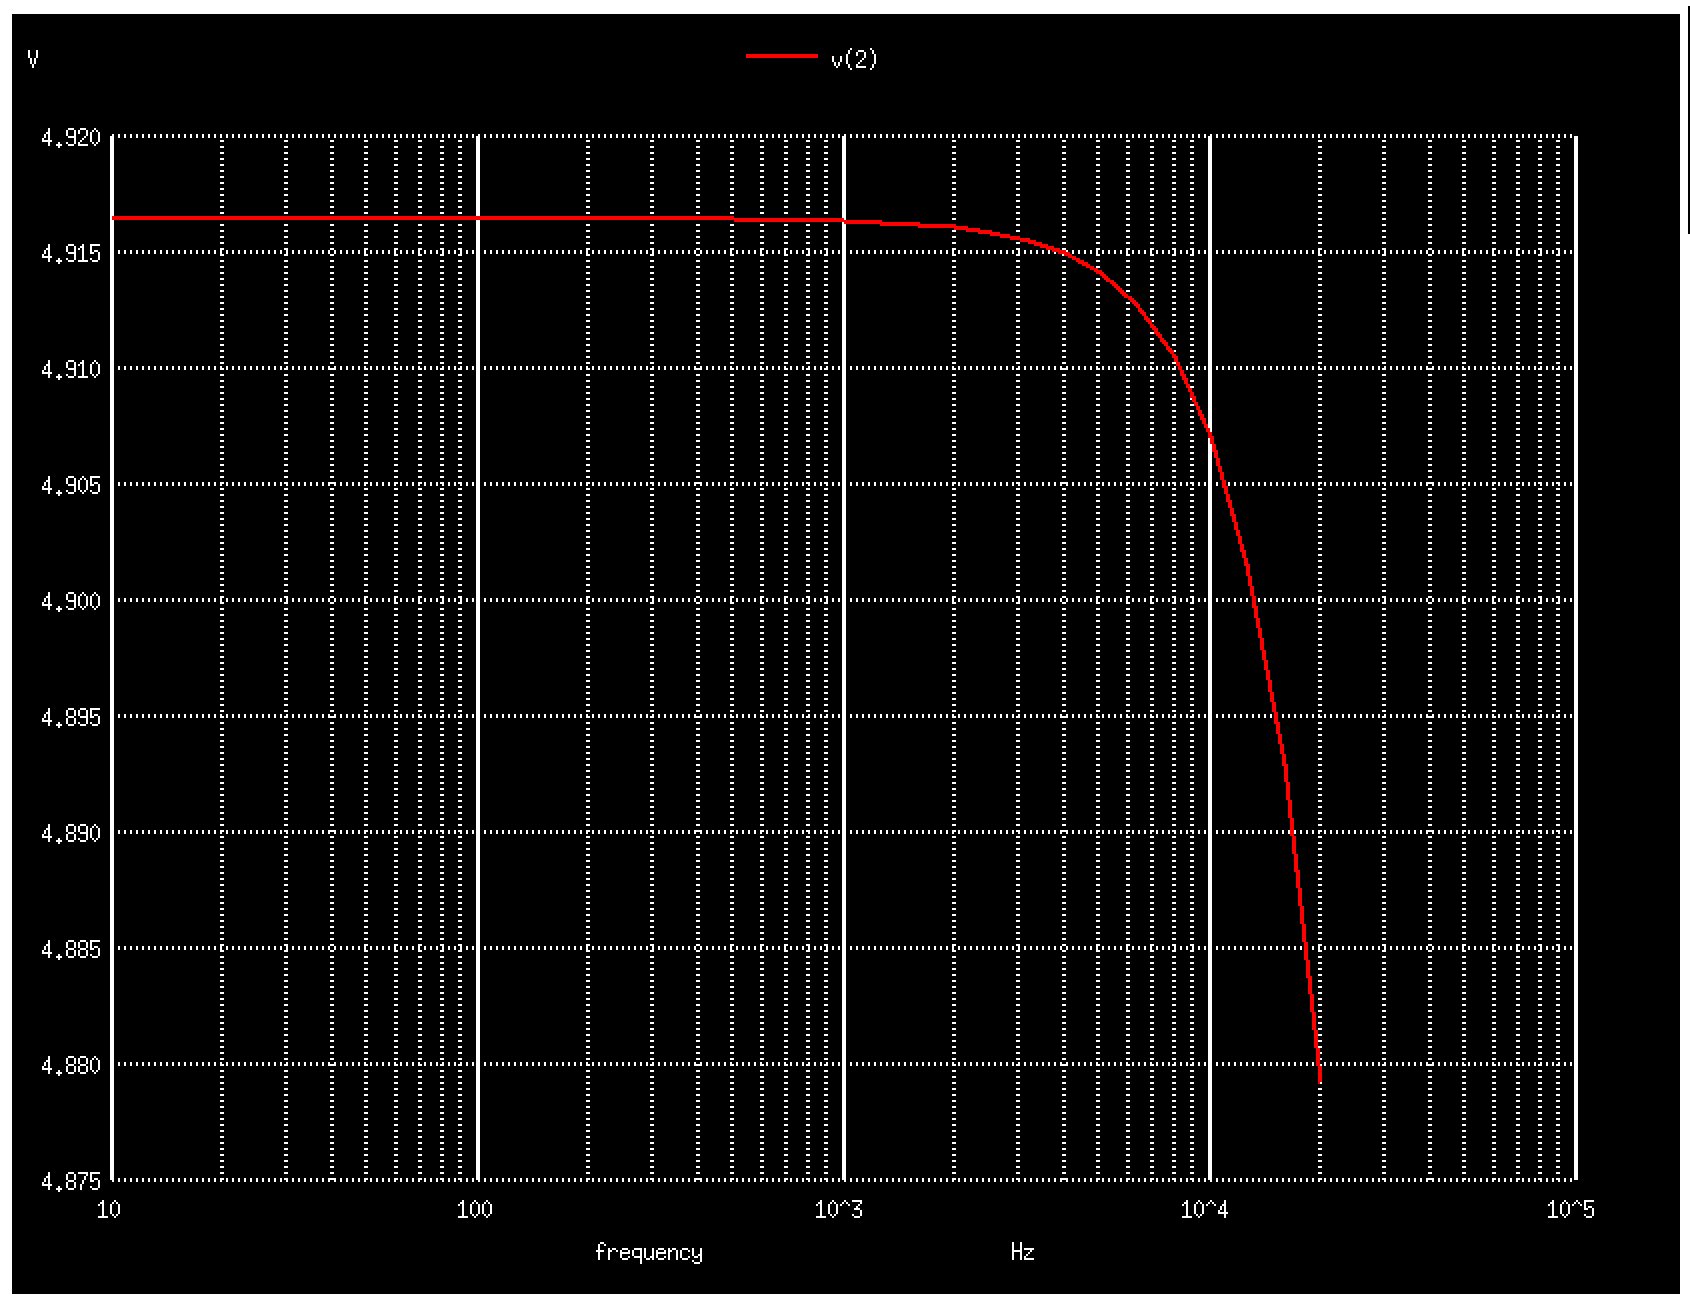
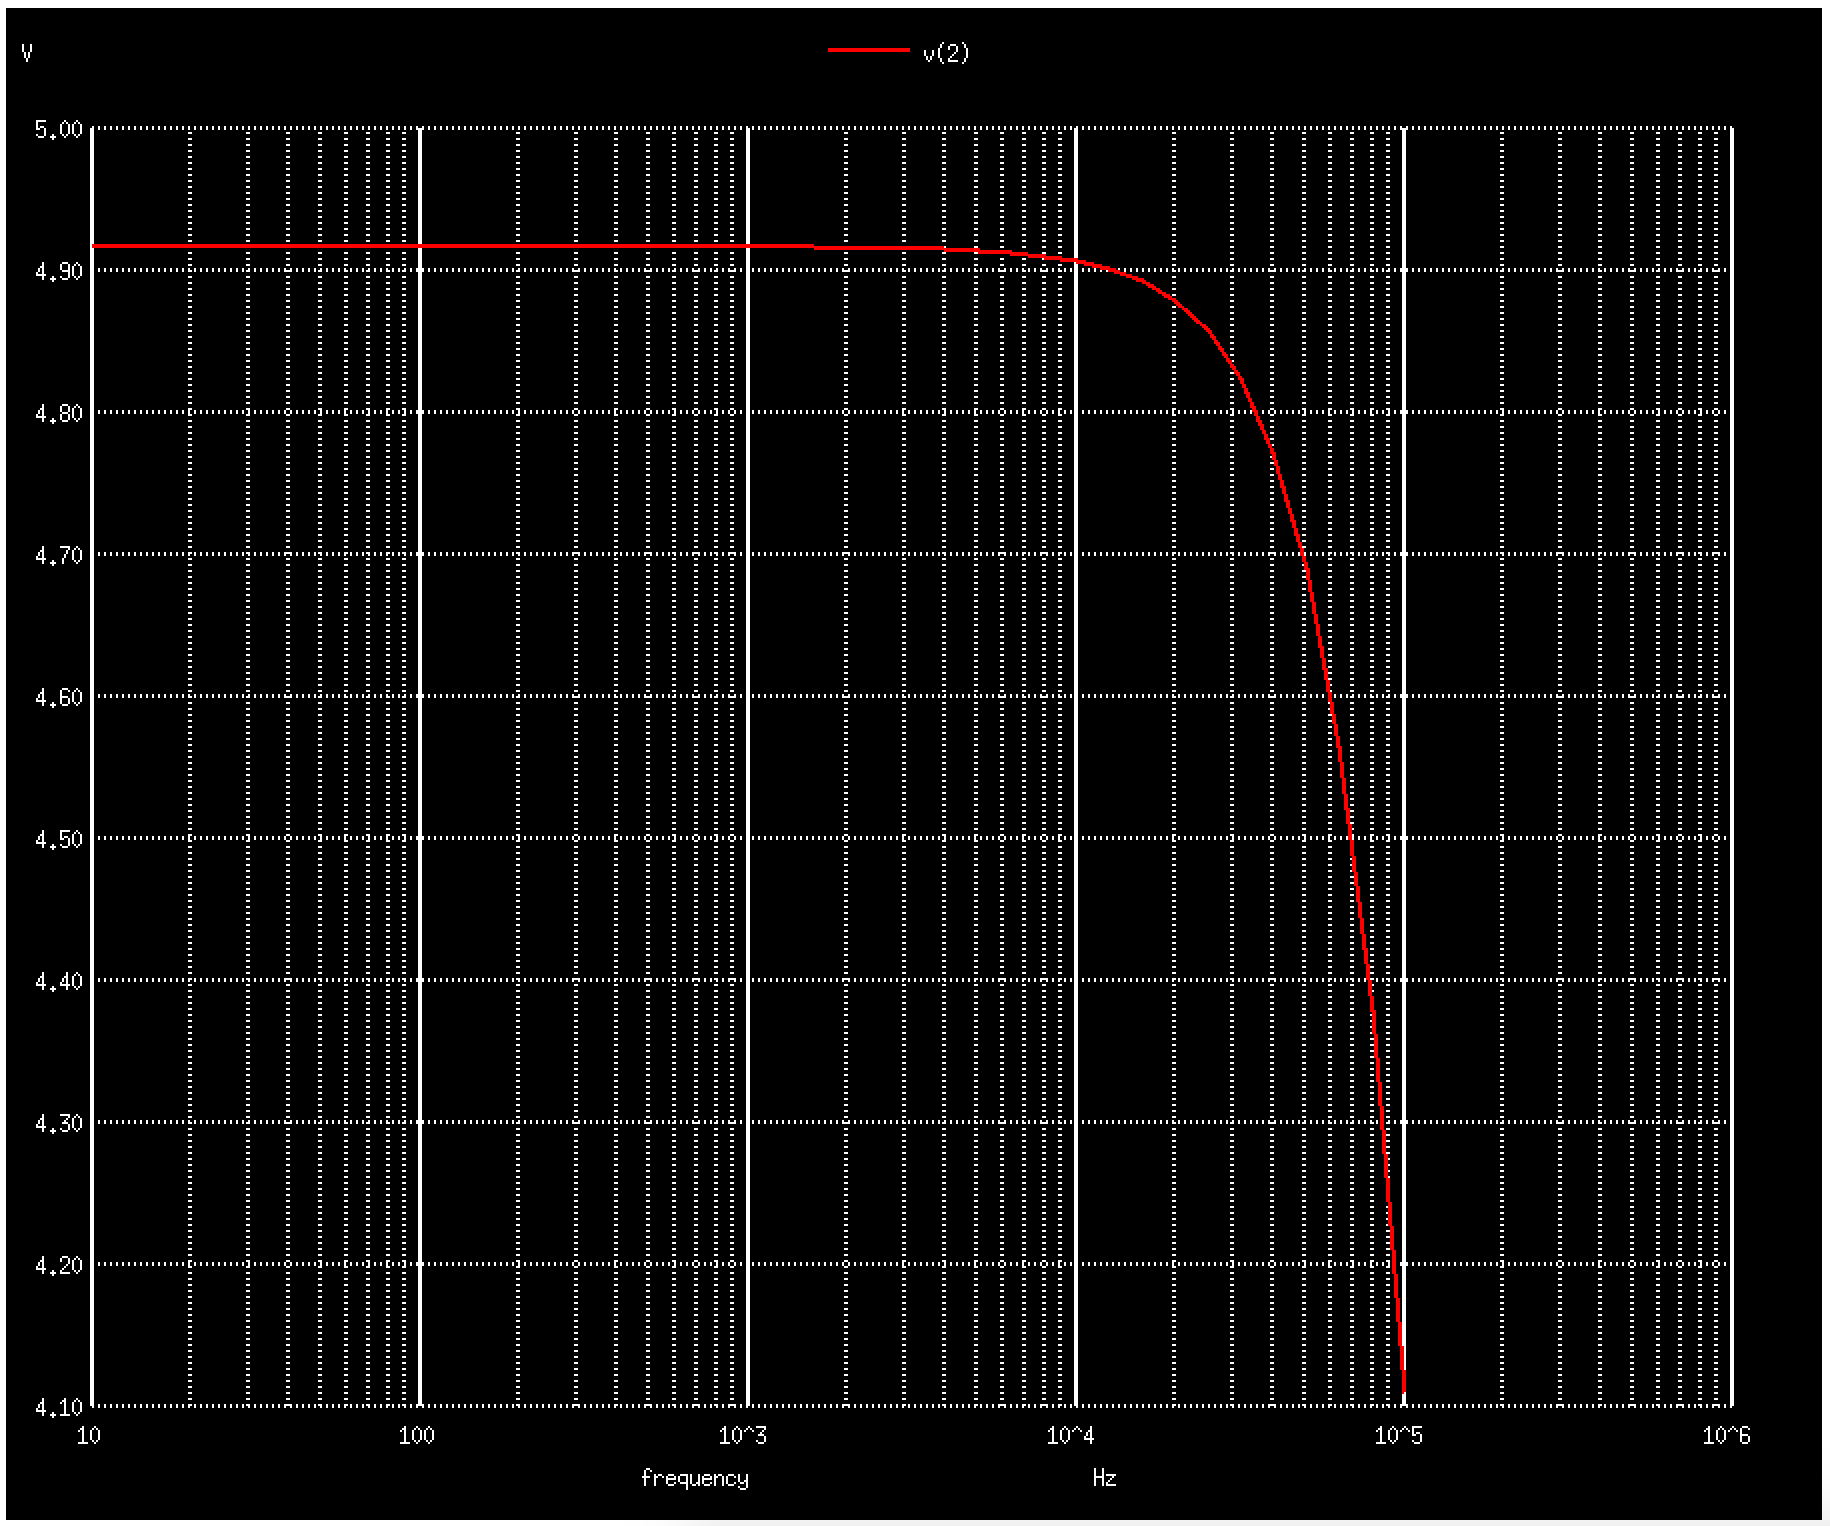
Calculating over correct bandwidth and correcting resolts

Changed region(s): [[0.0, 0.0, 1.0, 1.0]]

diff --git a/op_amp/non-inverting/README.md b/op_amp/non-inverting/README.md
@@ -16,13 +16,13 @@ As the gain increases, the bandwidth decreases.
 ## Instructions
 
 Run the circuit with:
- ```ngspice op_amp.cir```
+```ngspice op_amp.cir```
 
-For the sake of my interests, testing over frequency range 10Hz - 20KHz (just wider than normal human hearing).
+For the sake modelling, test over input frequency range 10Hz - 100KHz (just wider than normal human hearing).
 
 Apply a 1v ac supply of increasing frequency to `Vin`:
 ```
-ac dec 10 10Hz 20KHz
+ac dec 10 10Hz 100KHz
 ```
 * note: the second argument (in this case `10`) is points per decade *
 
@@ -39,18 +39,18 @@ Arbitrary resister choices to start
 r1 = 1.2KOhm
 r2 = 4.7KOhm
 Expected Gain = 4.917
-Bandwidth = 2KHz
+Gain at 20Khz = 4.877
 ```
-Band width is an order of magnitude too small.
+Bandwidth is acceptable on the range specified.
 [Plot 1](plots/plot_1.png)
 
 2.
-Decreasing r2
+Increasing gain by increasing r2
 ```
 r1 = 1.2KOhm
-r2 = 2KOhm
-Expected Gain = 2.667
-Bandwidth = 2KHz
+r2 = 9.1KOhm
+Expected Gain = 8.583
+Gain at 20KHz = 8.380
 ```
-Expecting the bandwidth to have increased but it has stayed the same.
+Gain increased without affecting bandwidth of range of interest.
 [Plot 2](plots/plot_2.png)
